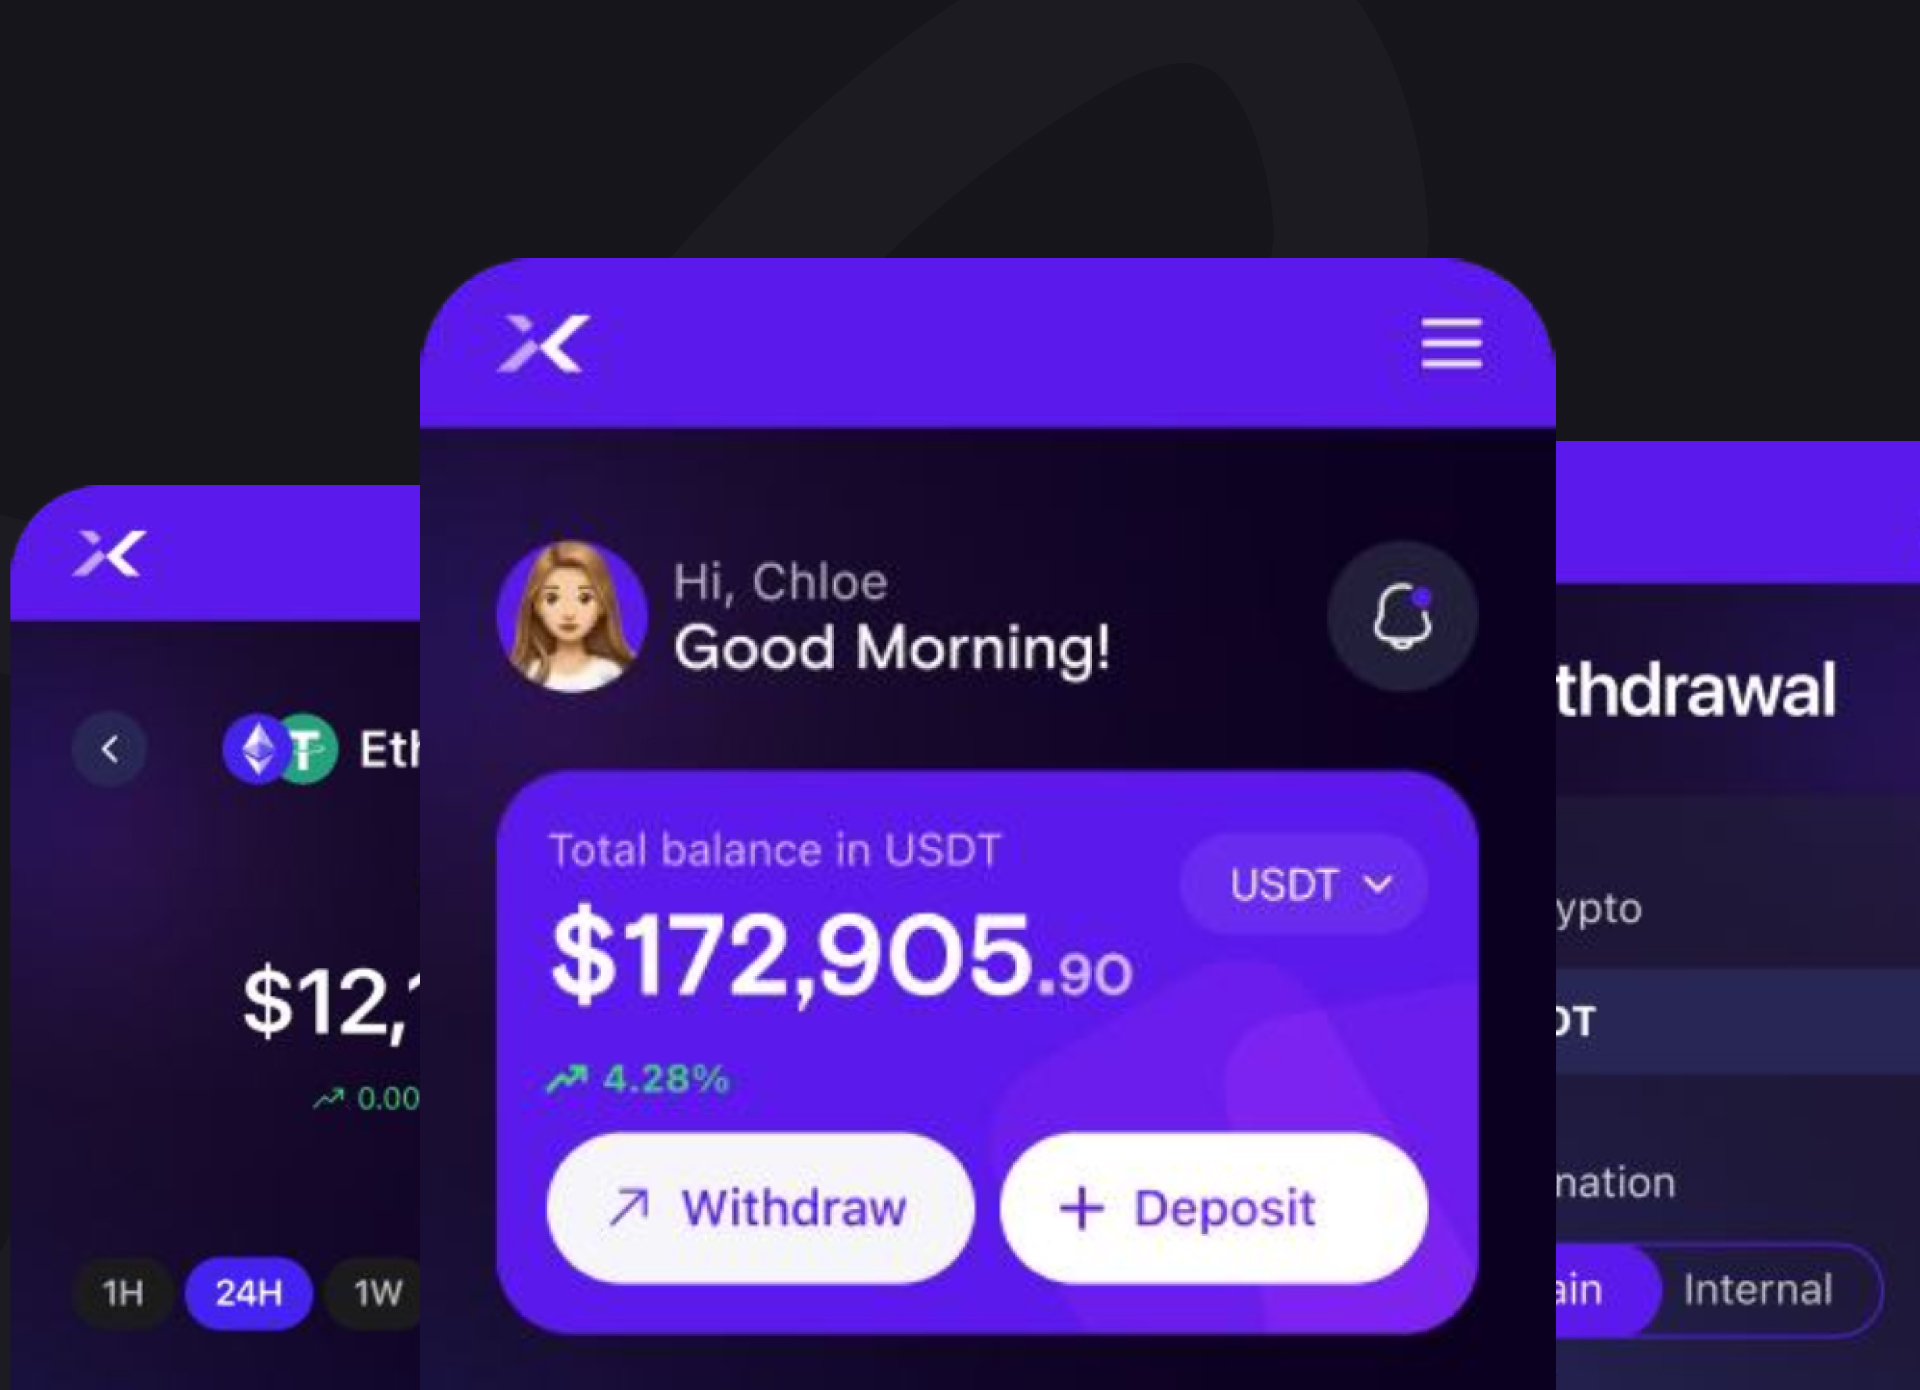
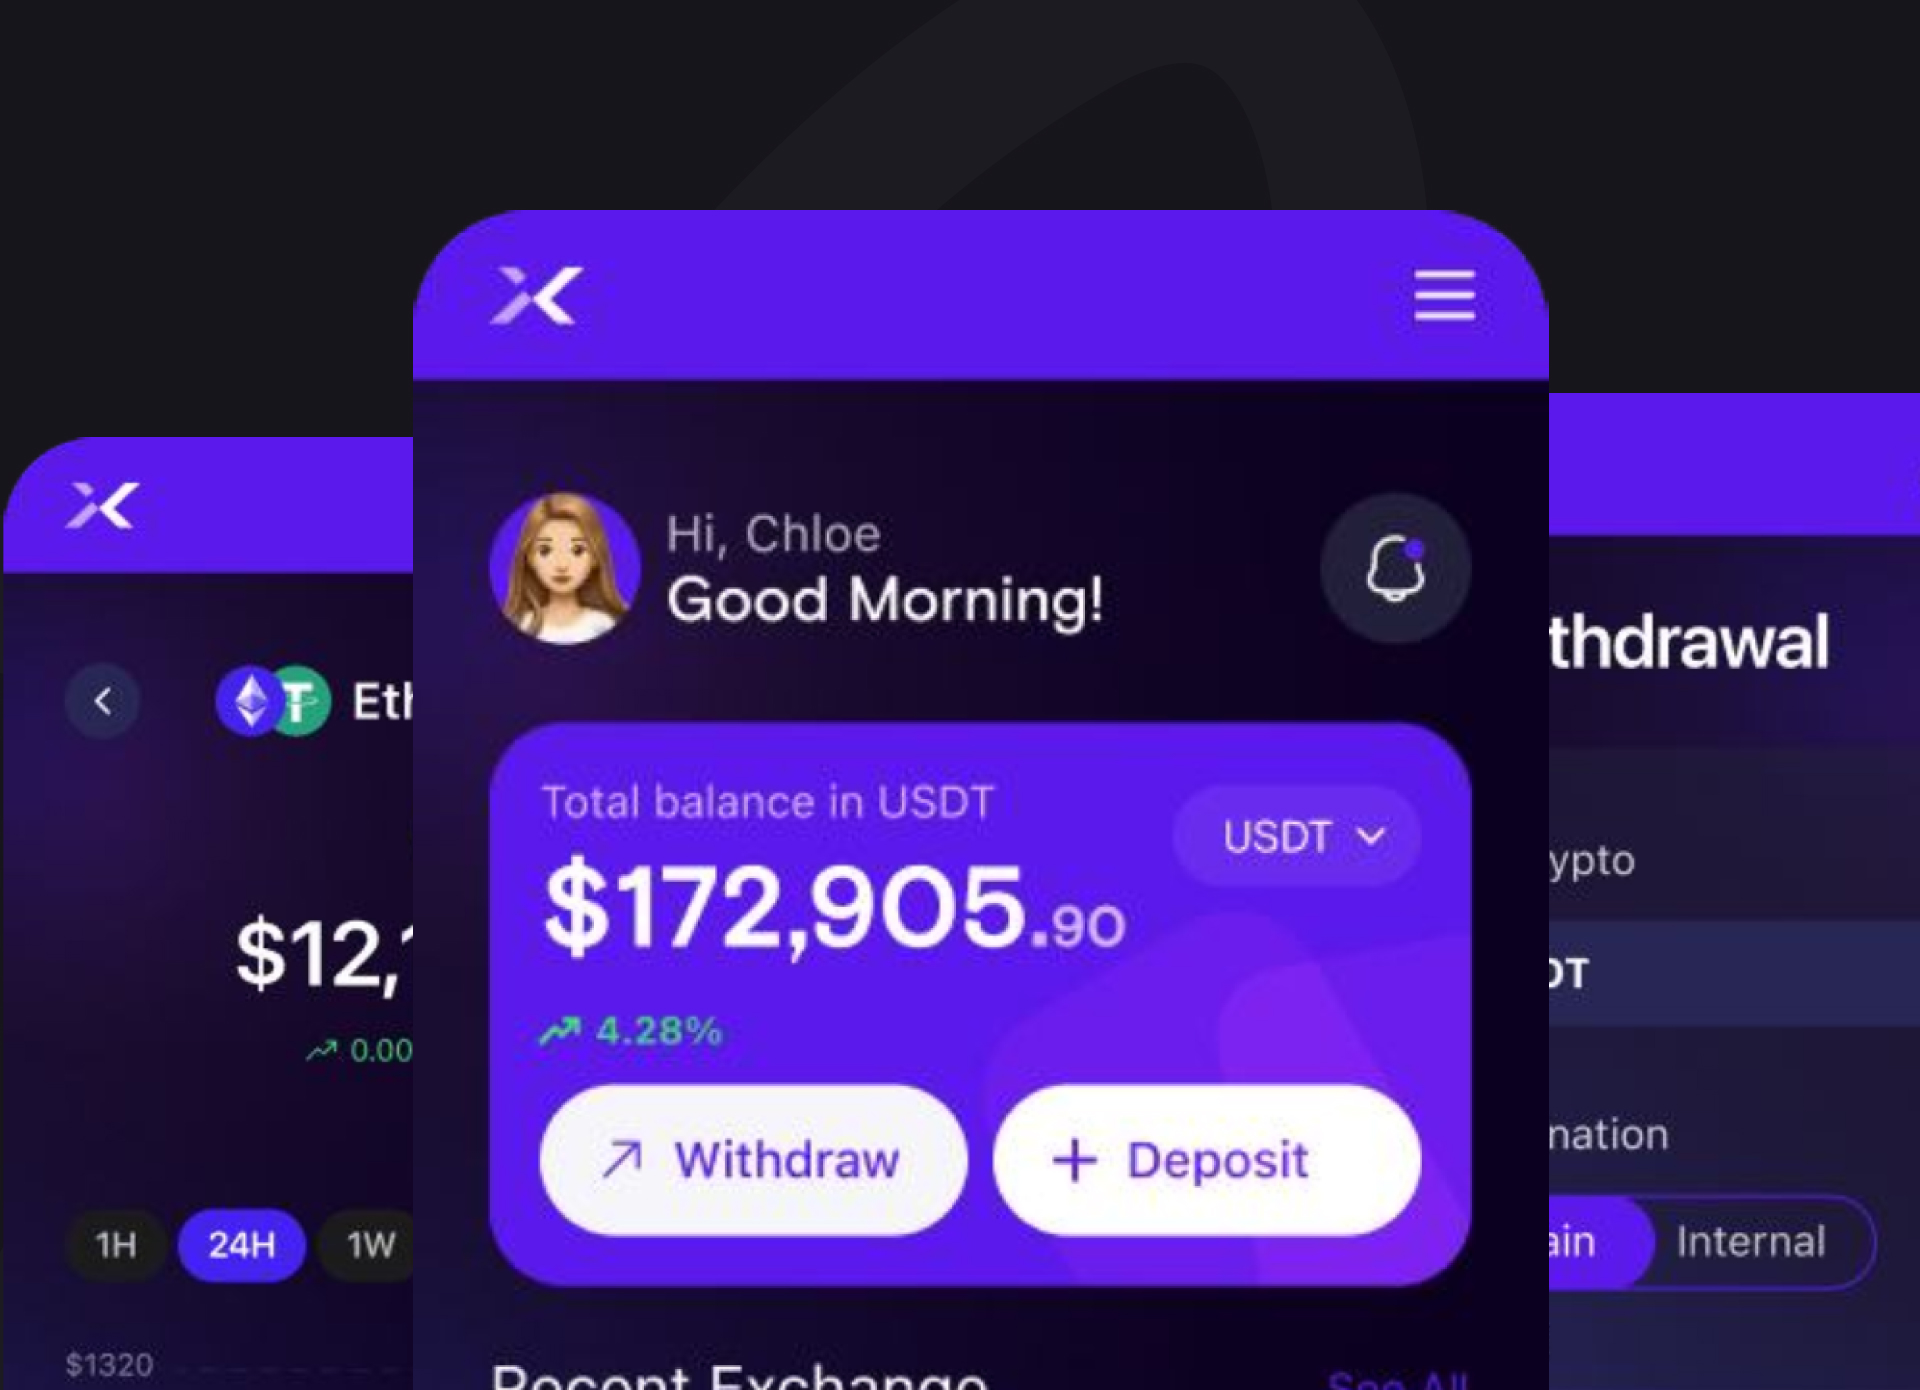
0905update

diff --git a/index.html b/index.html
@@ -324,9 +324,9 @@
                                     <a href="2020/pdf/ap-9.pdf" target="_blank">
                                         <div class="inner-box">
                                             <div class="content-box">
-                                                <span class="sub-title-text">OFFICIAL WEBSITES</span>
-                                                <h2>[side project]數位資產交易體驗平台</h2>
-                                                <p id="projects-content">以簡單直覺的操作、安全穩定的機制和快速入金提領流程，整合一站式服務，讓新手無須區塊鏈知識，即可輕鬆買賣主流加密貨幣，專為零門檻交易需求打造。</p>
+                                                <span class="sub-title-text">side project</span>
+                                                <h2>加密貨幣交易體驗平台</h2>
+                                                <p id="projects-content">以簡單直覺的操作、安全穩定的機制和快速入金提領流程，整合一站式服務，讓新手無須熟悉區塊鏈知識，即可輕鬆買賣主流加密貨幣，專為零門檻交易需求打造。</p>
                                                 <div class="link"><i class="icon-10"></i></div>
                                             </div>
                                             <figure class="image-box"><img src="assets/images/portfolio/ap-9.jpg"
@@ -655,8 +655,8 @@
                                     <a href="2020/pdf/ow-9.pdf" target="_blank">
                                         <div class="inner-box">
                                             <div class="content-box">
-                                                <span class="sub-title-text">OFFICIAL WEBSITES</span>
-                                                <h2>[side project]SuperCasino</h2>
+                                                <span class="sub-title-text">Side project</span>
+                                                <h2>SuperCasino</h2>
                                                 <p id="projects-content">網站匯聚Blackjack、Roulette、Baccarat與Slot四大經典遊戲結合即時數據分析與多重安全驗證，為用戶提供高效穩定、專業可靠的娛樂體驗，開創業界新標桿。</p>
                                                 <div class="link"><i class="icon-10"></i></div>
                                             </div>
